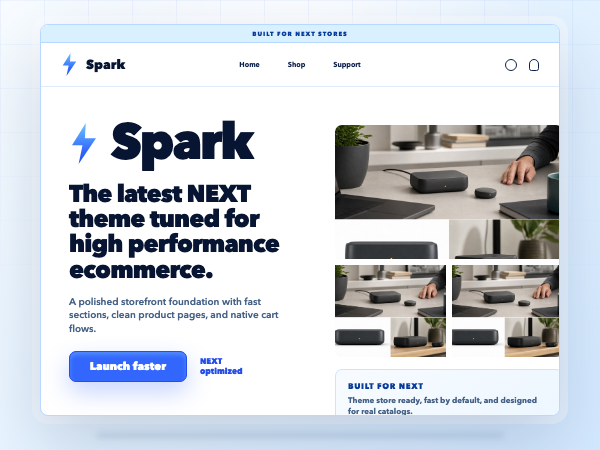
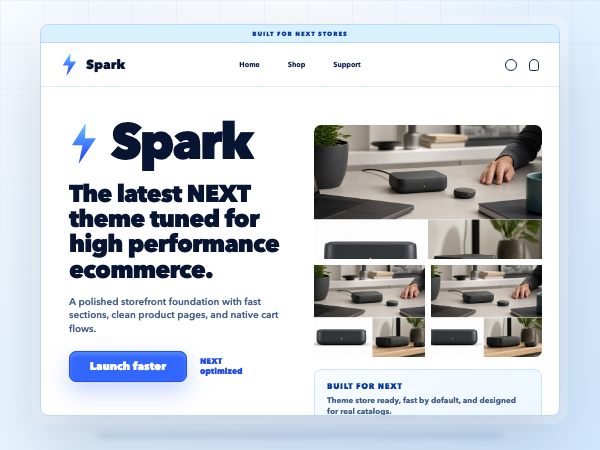
chore: make Spark thumbnail source reproducible

Changed region(s): [[0.51, 0.28, 0.93, 0.8089], [0.54, 0.84, 0.9, 0.9333]]

diff --git a/theme-store/thumbnail.html b/theme-store/thumbnail.html
@@ -20,7 +20,7 @@
     body {
         background: #edf6ff;
         color: #071532;
-        font-family: "Avenir Next", Avenir, "Inter Tight", Inter, ui-sans-serif, system-ui, -apple-system, BlinkMacSystemFont, "Segoe UI", sans-serif;
+        font-family: "Avenir Next", Avenir, Inter, ui-sans-serif, system-ui, -apple-system, BlinkMacSystemFont, "Segoe UI", sans-serif;
     }
 
     .frame {
@@ -162,7 +162,7 @@
     }
 
     h1 {
-        width: 246px;
+        max-width: 100%;
         margin: 0;
         color: #071532;
         font-size: 24px;
@@ -244,11 +244,11 @@
         object-position: 50% 8%;
     }
 
-    .image-stack .half:first-of-type img {
+    .image-stack .product-front img {
         object-position: 24% 72%;
     }
 
-    .image-stack .half:last-of-type img {
+    .image-stack .product-shelf img {
         object-position: 78% 70%;
     }
 
@@ -314,8 +314,8 @@
             <div class="hero-visual">
                 <div class="image-stack">
                     <div class="wide"><img src="source-gadget.jpg" alt=""></div>
-                    <div class="half"><img src="source-gadget.jpg" alt=""></div>
-                    <div class="half"><img src="source-gadget.jpg" alt=""></div>
+                    <div class="half product-front"><img src="source-gadget.jpg" alt=""></div>
+                    <div class="half product-shelf"><img src="source-gadget.jpg" alt=""></div>
                 </div>
                 <div class="next-panel">
                     <b>Built for NEXT</b>

diff --git a/theme-store/README.md b/theme-store/README.md
@@ -1,0 +1,13 @@
+# Spark Theme Store Assets
+
+This directory contains the source and rendered asset used for Spark's listing in the NEXT theme dashboard.
+
+| File | Purpose |
+| --- | --- |
+| `thumbnail.html` | Source markup for the dashboard thumbnail. |
+| `source-gadget.jpg` | Source product image used by `thumbnail.html`. Keep this committed so the thumbnail is reproducible from a fresh clone. |
+| `theme-spark-thumb.png` | Rendered `600x450` dashboard thumbnail. |
+
+When changing `thumbnail.html` or `source-gadget.jpg`, regenerate `theme-spark-thumb.png` at `600x450` and commit all changed source assets with the rendered PNG.
+
+The current thumbnail was rendered with a headless browser viewport of `600x450`.